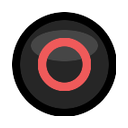
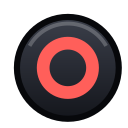
assets: the PlayStation prompts in Takedawn's style (MIT, xenophobentx/takedawn) - dark discs with bold coloured symbols, light L1/R1 and dark L2/R2 caps, the Options ring; drawn from SVGs kept beside them

Changed region(s): [[0.0938, 0.0938, 0.9688, 0.9688], [0.25, 0.2812, 0.7812, 0.7812]]

diff --git a/rexglue/assets/input_prompts/takedawn/README.md b/rexglue/assets/input_prompts/takedawn/README.md
@@ -1,0 +1,14 @@
+# PlayStation prompts after Takedawn
+
+The PlayStation set in `../replace/playstation/` (the menu atlas
+`C3E82000DB0002CD.png` and the race's icons `FB913238D525726F.png`,
+`54EFE1A4D2A2E52C.png`) is drawn from these SVGs, rendered with
+`rsvg-convert`. The shapes, colours and stroke letters are those of
+[Takedawn](https://github.com/xenophobentx/takedawn)'s
+`assets/glyphs/playstation` (MIT, `LICENSE.takedawn`), laid out at the places
+where Burnout Revenge keeps its prompts; the right stick and the d-pad are
+drawn here in the same manner.
+
+    rsvg-convert atlas.svg -o ../replace/playstation/C3E82000DB0002CD.png
+    rsvg-convert race_cross.svg -o ../replace/playstation/FB913238D525726F.png
+    rsvg-convert race_circle.svg -o ../replace/playstation/54EFE1A4D2A2E52C.png
